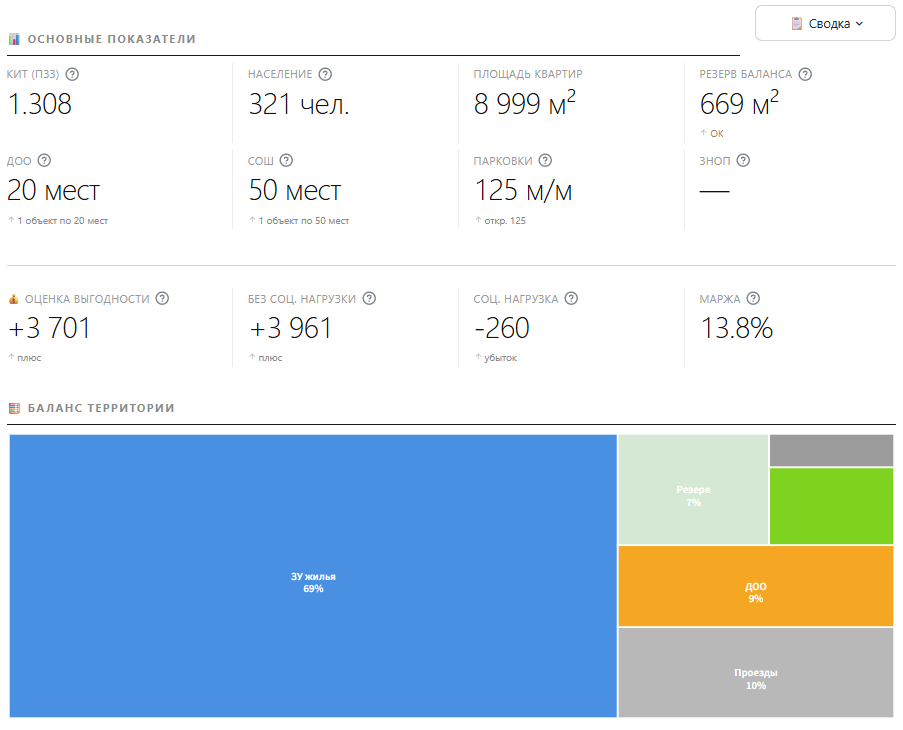
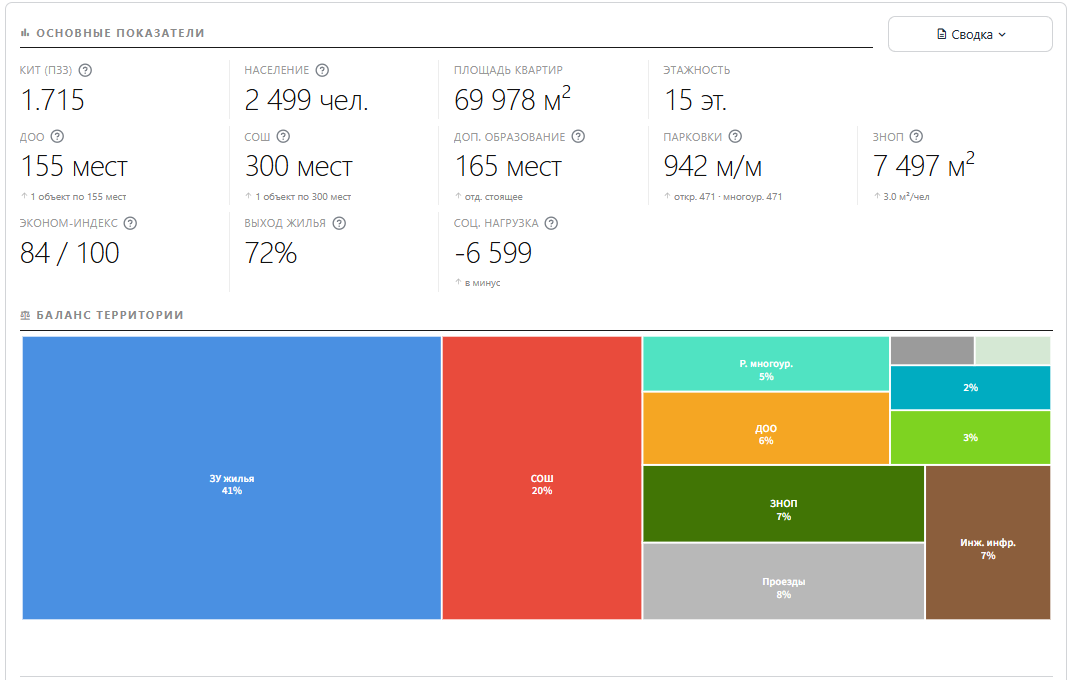
Лендинг: обновлены скриншоты (актуальный UI + новые «Карточки подбора»/«Детальная информация»)
- screen-calc/balance/graf/report — заменены на актуальный вид приложения
- screen-optimize → новый вид (4 карточки Пороговый/Девелоперский с эконом-индексом)
- + новый слайд «Детальная информация» (детали застройки по разделам)
- шапка «Санкт-Петербург · ПЗЗ / СП / НГП» → «Санкт-Петербург»; перечень
  документов (ПЗЗ/НГП/СП 42/СП 158/РМД) — в разделе «На чём всё основано»
- SITE_VER 0.12.14 → 0.12.28 (сброс кэша картинок)

diff --git a/docs/index.html b/docs/index.html
@@ -157,7 +157,7 @@
 
 <header class="hero">
   <div class="wrap">
-    <div class="eyebrow">Санкт-Петербург · ПЗЗ / СП / НГП</div>
+    <div class="eyebrow">Санкт-Петербург</div>
     <h1>Математическая модель <b>застройки территории</b></h1>
     <div class="accent"></div>
     <p>Задайте площадь квартала и ограничения — система подберёт максимально
@@ -273,12 +273,21 @@
       </figure>
       <figure>
         <div class="frame">
+          <img src="assets/screen-detail.png" alt="Детальная информация"
+               onerror="this.style.display='none';this.nextElementSibling.style.display='flex'">
+          <div class="ph" style="display:none"><div class="big">🗂</div>
+            <b>Детальная информация</b><small>assets/screen-detail.png</small></div>
+        </div>
+        <figcaption>Детальная информация<span>жильё, соцобъекты, парковки, инженерия, аудит с источниками</span></figcaption>
+      </figure>
+      <figure>
+        <div class="frame">
           <img src="assets/screen-optimize.png" alt="Подбор сценариев"
                onerror="this.style.display='none';this.nextElementSibling.style.display='flex'">
           <div class="ph" style="display:none"><div class="big">🎯</div>
             <b>Подбор сценариев</b><small>assets/screen-optimize.png</small></div>
         </div>
-        <figcaption>Подбор сценариев<span>готовые рекомендации по площади и прибыли</span></figcaption>
+        <figcaption>Подбор сценариев<span>4 стратегии: площадь · эконом-индекс · пороговый · девелоперский</span></figcaption>
       </figure>
       <figure>
         <div class="frame">
@@ -405,6 +414,13 @@
              конкретного правила-источника — результат прозрачен и проверяем.
              Программа не «придумывает» цифры, а применяет официальные требования.
              Сейчас она настроена на нормативы Санкт-Петербурга.</p>
+          <p>Используемые документы:</p>
+          <ul style="margin:0 0 10px 18px;color:#666;font-size:15px;font-weight:300;line-height:1.7">
+            <li><b>ПЗЗ Санкт-Петербурга</b> — предельные параметры (КИТ, озеленение, парковки).</li>
+            <li><b>НГП Санкт-Петербурга</b> — нормативы потребности в соц. и обслуживающих объектах.</li>
+            <li><b>СП 42.13330</b> (градостроительство), <b>СП 158.13330</b> (поликлиники),
+                <b>РМД 15-26-2017</b> — площади и наполняемость объектов.</li>
+          </ul>
         </div></details>
 
       <details class="about"><summary>Чего программа не делает</summary>
@@ -429,7 +445,7 @@
     только с письменного согласия автора.
     По вопросам сотрудничества: <b>misht.cad@gmail.com</b>.
     <span style="display:block;margin-top:10px;color:#bbb;font-size:12px">
-      Версия лендинга <b id="siteVer">v0.12.14</b> · 2026-06-23</span>
+      Версия лендинга <b id="siteVer">v0.12.28</b> · 2026-06-25</span>
   </div>
 </footer>
 
@@ -437,7 +453,7 @@
 // Версионность: метка приписывается к URL скриншотов (?v=…) — браузер
 // всегда тянет свежие картинки, не из кэша. Поднимай SITE_VER при замене
 // картинок/стилей.
-const SITE_VER = "0.12.14";
+const SITE_VER = "0.12.28";
 (function(){
   document.querySelectorAll('.shots img').forEach(img => {
     const src = img.getAttribute('src');

diff --git a/лендинг.html b/лендинг.html
@@ -157,7 +157,7 @@
 
 <header class="hero">
   <div class="wrap">
-    <div class="eyebrow">Санкт-Петербург · ПЗЗ / СП / НГП</div>
+    <div class="eyebrow">Санкт-Петербург</div>
     <h1>Математическая модель <b>застройки территории</b></h1>
     <div class="accent"></div>
     <p>Задайте площадь квартала и ограничения — система подберёт максимально
@@ -273,12 +273,21 @@
       </figure>
       <figure>
         <div class="frame">
+          <img src="assets/screen-detail.png" alt="Детальная информация"
+               onerror="this.style.display='none';this.nextElementSibling.style.display='flex'">
+          <div class="ph" style="display:none"><div class="big">🗂</div>
+            <b>Детальная информация</b><small>assets/screen-detail.png</small></div>
+        </div>
+        <figcaption>Детальная информация<span>жильё, соцобъекты, парковки, инженерия, аудит с источниками</span></figcaption>
+      </figure>
+      <figure>
+        <div class="frame">
           <img src="assets/screen-optimize.png" alt="Подбор сценариев"
                onerror="this.style.display='none';this.nextElementSibling.style.display='flex'">
           <div class="ph" style="display:none"><div class="big">🎯</div>
             <b>Подбор сценариев</b><small>assets/screen-optimize.png</small></div>
         </div>
-        <figcaption>Подбор сценариев<span>готовые рекомендации по площади и прибыли</span></figcaption>
+        <figcaption>Подбор сценариев<span>4 стратегии: площадь · эконом-индекс · пороговый · девелоперский</span></figcaption>
       </figure>
       <figure>
         <div class="frame">
@@ -405,6 +414,13 @@
              конкретного правила-источника — результат прозрачен и проверяем.
              Программа не «придумывает» цифры, а применяет официальные требования.
              Сейчас она настроена на нормативы Санкт-Петербурга.</p>
+          <p>Используемые документы:</p>
+          <ul style="margin:0 0 10px 18px;color:#666;font-size:15px;font-weight:300;line-height:1.7">
+            <li><b>ПЗЗ Санкт-Петербурга</b> — предельные параметры (КИТ, озеленение, парковки).</li>
+            <li><b>НГП Санкт-Петербурга</b> — нормативы потребности в соц. и обслуживающих объектах.</li>
+            <li><b>СП 42.13330</b> (градостроительство), <b>СП 158.13330</b> (поликлиники),
+                <b>РМД 15-26-2017</b> — площади и наполняемость объектов.</li>
+          </ul>
         </div></details>
 
       <details class="about"><summary>Чего программа не делает</summary>
@@ -429,7 +445,7 @@
     только с письменного согласия автора.
     По вопросам сотрудничества: <b>misht.cad@gmail.com</b>.
     <span style="display:block;margin-top:10px;color:#bbb;font-size:12px">
-      Версия лендинга <b id="siteVer">v0.12.14</b> · 2026-06-23</span>
+      Версия лендинга <b id="siteVer">v0.12.28</b> · 2026-06-25</span>
   </div>
 </footer>
 
@@ -437,7 +453,7 @@
 // Версионность: метка приписывается к URL скриншотов (?v=…) — браузер
 // всегда тянет свежие картинки, не из кэша. Поднимай SITE_VER при замене
 // картинок/стилей.
-const SITE_VER = "0.12.14";
+const SITE_VER = "0.12.28";
 (function(){
   document.querySelectorAll('.shots img').forEach(img => {
     const src = img.getAttribute('src');
